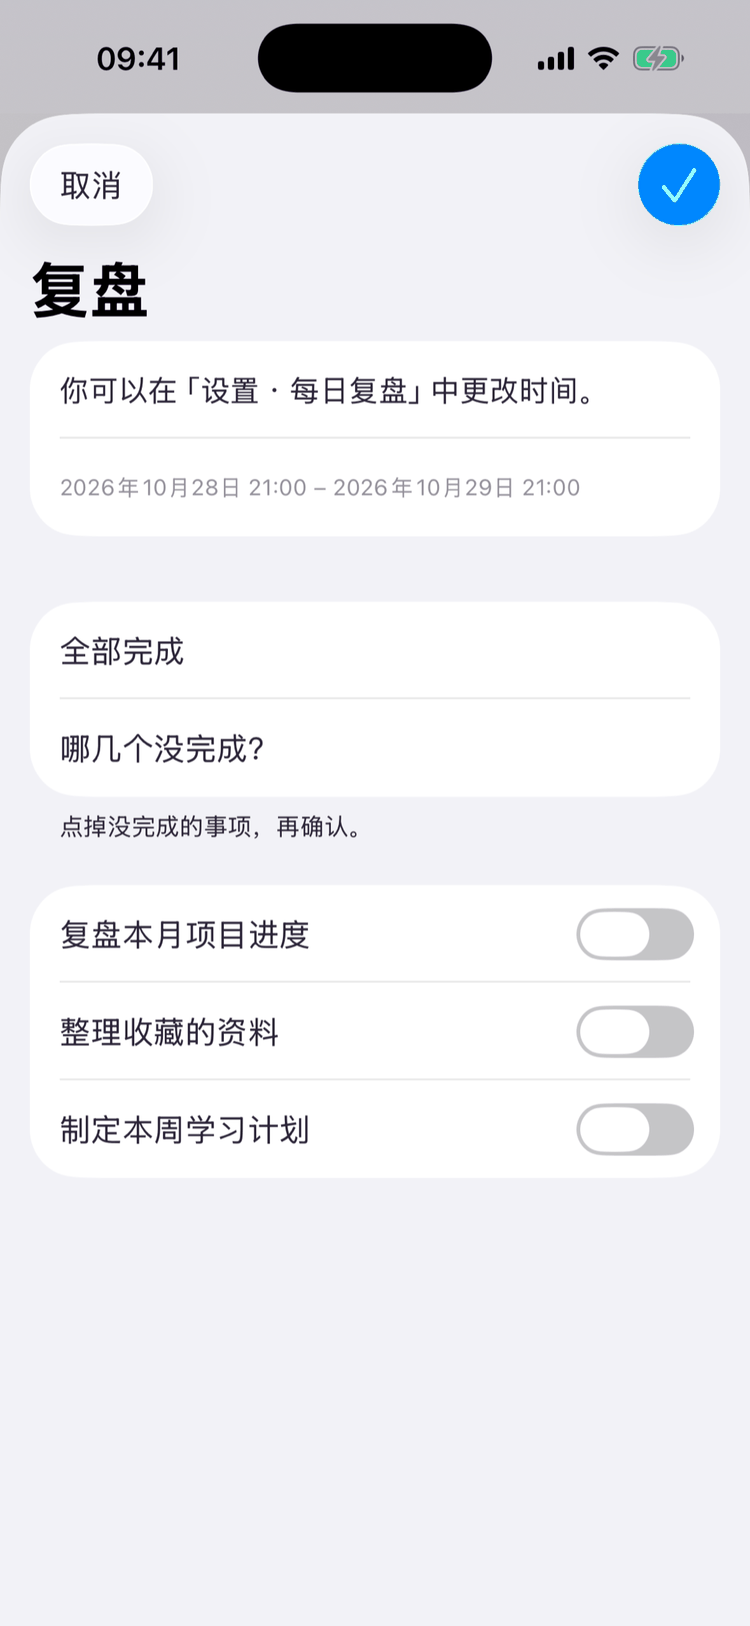
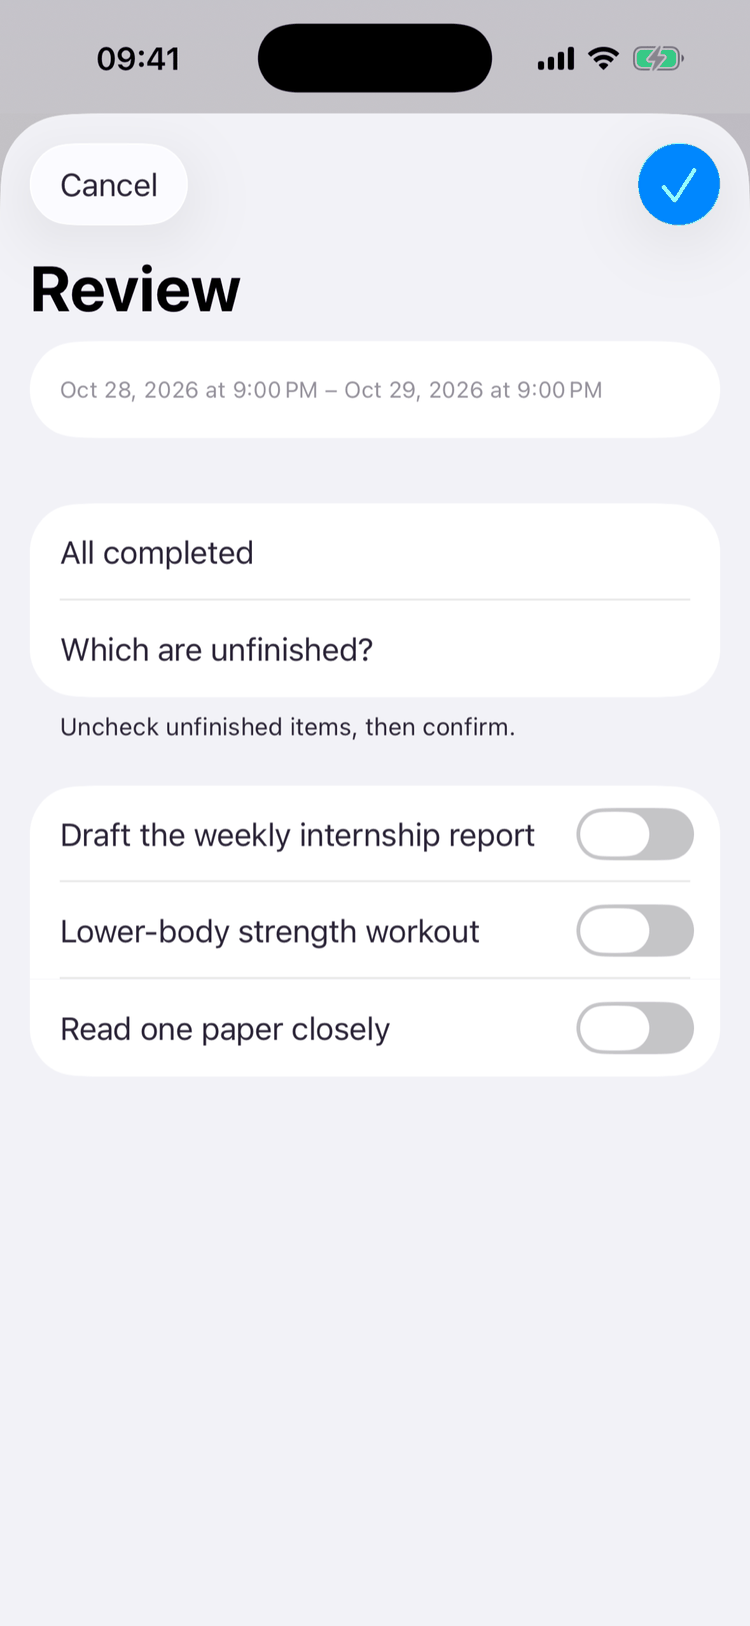
Screenshot set v2 (work/study/fitness demo data): zh + English-UI sets, profile placeholder replaced
- zh: hero, feature-profile (interview Q1), feature-breakdown, feature-schedule, feature-review
- EN: hero-en, feature-profile-en, feature-schedule-en, feature-review-en; feature-breakdown-en stays a copy of the zh breakdown (EN demo content is hardcoded Chinese)
- 750x1626 256-colour PNG, metadata stripped; vetted for credentials/personal data/retired-feature words
- Alt text updated for all images (EN + zh); README screenshot status updated

diff --git a/index.html b/index.html
@@ -49,7 +49,7 @@
           <div class="actions"><a class="button primary" href="https://testflight.apple.com/join/9BAkFSvp">Join the TestFlight beta <span class="arrow" aria-hidden="true">→</span></a><a class="button" href="#features">See how it works</a></div>
           <p class="hero-note">For iPhone · Beta via Apple TestFlight</p>
         </div>
-        <figure class="phone"><div class="phone-frame"><img src="/assets/screens/hero-en.png" data-fallback="/assets/screens/hero.png" width="1179" height="2556" alt="Owl assistant home screen with today’s todos" loading="eager"></div></figure>
+        <figure class="phone"><div class="phone-frame"><img src="/assets/screens/hero-en.png" data-fallback="/assets/screens/hero.png" width="1179" height="2556" alt="Owl assistant home with today’s todos: organize paper notes, a 30-minute upper-body workout, and weekly meeting talking points" loading="eager"></div></figure>
       </div>
     </section>
 
@@ -57,10 +57,10 @@
       <div class="shell">
         <div class="section-head"><p class="eyebrow">How it works</p><h2>One gentle loop, every day.</h2><p>Four steps that build on each other — from knowing what matters to you, to looking back on your day.</p></div>
         <ol class="features">
-          <li class="feature"><span class="step" aria-hidden="true">1</span><h3>Get to know you</h3><p>A three-question interview builds your personal profile, so suggestions fit your life. Skip any question you like.</p><figure class="phone"><div class="phone-frame"><img src="/assets/screens/feature-profile-en.png" data-fallback="/assets/screens/feature-profile.png" width="1179" height="2556" alt="Owl getting-to-know-you interview (screenshot placeholder)" loading="lazy"></div></figure></li>
-          <li class="feature"><span class="step" aria-hidden="true">2</span><h3>Break down a goal</h3><p>Tell Owl a goal and it drafts small, doable steps. Preview the AI plan first — nothing is saved until you keep it.</p><figure class="phone"><div class="phone-frame"><img src="/assets/screens/feature-breakdown-en.png" data-fallback="/assets/screens/feature-breakdown.png" width="1179" height="2556" alt="Owl AI goal breakdown preview with numbered steps" loading="lazy"></div></figure></li>
-          <li class="feature"><span class="step" aria-hidden="true">3</span><h3>Schedule as todos</h3><p>Place each step on your schedule as a todo, so the next action always has a time.</p><figure class="phone"><div class="phone-frame"><img src="/assets/screens/feature-schedule-en.png" data-fallback="/assets/screens/feature-schedule.png" width="1179" height="2556" alt="Owl plans and todos list" loading="lazy"></div></figure></li>
-          <li class="feature"><span class="step" aria-hidden="true">4</span><h3>Evening review</h3><p>Wrap up the day with a short daily review: see what got done and get gentle feedback for tomorrow.</p><figure class="phone"><div class="phone-frame"><img src="/assets/screens/feature-review-en.png" data-fallback="/assets/screens/feature-review.png" width="1179" height="2556" alt="Owl evening daily review sheet" loading="lazy"></div></figure></li>
+          <li class="feature"><span class="step" aria-hidden="true">1</span><h3>Get to know you</h3><p>A three-question interview builds your personal profile, so suggestions fit your life. Skip any question you like.</p><figure class="phone"><div class="phone-frame"><img src="/assets/screens/feature-profile-en.png" data-fallback="/assets/screens/feature-profile.png" width="1179" height="2556" alt="Owl getting-to-know-you interview, question 1 of 3: “What does life look like for you lately?”" loading="lazy"></div></figure></li>
+          <li class="feature"><span class="step" aria-hidden="true">2</span><h3>Break down a goal</h3><p>Tell Owl a goal and it drafts small, doable steps. Preview the AI plan first — nothing is saved until you keep it.</p><figure class="phone"><div class="phone-frame"><img src="/assets/screens/feature-breakdown-en.png" data-fallback="/assets/screens/feature-breakdown.png" width="1179" height="2556" alt="Owl AI goal breakdown preview: a 30-day exam-prep plan split into numbered steps (Chinese interface)" loading="lazy"></div></figure></li>
+          <li class="feature"><span class="step" aria-hidden="true">3</span><h3>Schedule as todos</h3><p>Place each step on your schedule as a todo, so the next action always has a time.</p><figure class="phone"><div class="phone-frame"><img src="/assets/screens/feature-schedule-en.png" data-fallback="/assets/screens/feature-schedule.png" width="1179" height="2556" alt="Owl plans list: strength training, internship report, quarterly review prep, paper reading, English speaking practice and a morning run" loading="lazy"></div></figure></li>
+          <li class="feature"><span class="step" aria-hidden="true">4</span><h3>Evening review</h3><p>Wrap up the day with a short daily review: see what got done and get gentle feedback for tomorrow.</p><figure class="phone"><div class="phone-frame"><img src="/assets/screens/feature-review-en.png" data-fallback="/assets/screens/feature-review.png" width="1179" height="2556" alt="Owl evening daily review: mark today’s todos as completed or unfinished" loading="lazy"></div></figure></li>
         </ol>
       </div>
     </section>

diff --git a/zh/index.html b/zh/index.html
@@ -49,7 +49,7 @@
           <div class="actions"><a class="button primary" href="https://testflight.apple.com/join/9BAkFSvp">加入 TestFlight 测试 <span class="arrow" aria-hidden="true">→</span></a><a class="button" href="#features">了解使用流程</a></div>
           <p class="hero-note">适用于 iPhone · 通过 Apple TestFlight 测试</p>
         </div>
-        <figure class="phone"><div class="phone-frame"><img src="/assets/screens/hero.png" width="1179" height="2556" alt="Owl 助手首页与今日待办" loading="eager"></div></figure>
+        <figure class="phone"><div class="phone-frame"><img src="/assets/screens/hero.png" width="1179" height="2556" alt="Owl 助手首页的今日待办：整理论文笔记、上肢力量训练 30 分钟、准备周会发言要点" loading="eager"></div></figure>
       </div>
     </section>
 
@@ -57,10 +57,10 @@
       <div class="shell">
         <div class="section-head"><p class="eyebrow">使用流程</p><h2>每天一个温和的小闭环。</h2><p>四个环节层层衔接：从了解什么对你重要，到回顾这一天。</p></div>
         <ol class="features">
-          <li class="feature"><span class="step" aria-hidden="true">1</span><h3>三个问题认识你</h3><p>简短的三问访谈为你建立个人画像，让建议更贴合你的生活。任何问题都可以跳过。</p><figure class="phone"><div class="phone-frame"><img src="/assets/screens/feature-profile.png" width="1179" height="2556" alt="Owl 认识你访谈（截图占位）" loading="lazy"></div></figure></li>
-          <li class="feature"><span class="step" aria-hidden="true">2</span><h3>拆解目标</h3><p>说出一个目标，Owl 会拟出可执行的小步骤。先预览 AI 方案，确认保留后才会保存。</p><figure class="phone"><div class="phone-frame"><img src="/assets/screens/feature-breakdown.png" width="1179" height="2556" alt="Owl AI 目标拆解预览与分步计划" loading="lazy"></div></figure></li>
-          <li class="feature"><span class="step" aria-hidden="true">3</span><h3>排进待办</h3><p>把每个步骤作为待办排进日程，让下一步行动都有明确的时间。</p><figure class="phone"><div class="phone-frame"><img src="/assets/screens/feature-schedule.png" width="1179" height="2556" alt="Owl 计划与待办列表" loading="lazy"></div></figure></li>
-          <li class="feature"><span class="step" aria-hidden="true">4</span><h3>晚间复盘</h3><p>晚上用简短的每日复盘收尾：看看完成了什么，并获得面向明天的温和反馈。</p><figure class="phone"><div class="phone-frame"><img src="/assets/screens/feature-review.png" width="1179" height="2556" alt="Owl 晚间每日复盘弹窗" loading="lazy"></div></figure></li>
+          <li class="feature"><span class="step" aria-hidden="true">1</span><h3>三个问题认识你</h3><p>简短的三问访谈为你建立个人画像，让建议更贴合你的生活。任何问题都可以跳过。</p><figure class="phone"><div class="phone-frame"><img src="/assets/screens/feature-profile.png" width="1179" height="2556" alt="Owl「认识你」访谈第 1/3 题：最近的你，是什么样的？" loading="lazy"></div></figure></li>
+          <li class="feature"><span class="step" aria-hidden="true">2</span><h3>拆解目标</h3><p>说出一个目标，Owl 会拟出可执行的小步骤。先预览 AI 方案，确认保留后才会保存。</p><figure class="phone"><div class="phone-frame"><img src="/assets/screens/feature-breakdown.png" width="1179" height="2556" alt="Owl AI 目标拆解预览：30 天备考计划拆成编号步骤" loading="lazy"></div></figure></li>
+          <li class="feature"><span class="step" aria-hidden="true">3</span><h3>排进待办</h3><p>把每个步骤作为待办排进日程，让下一步行动都有明确的时间。</p><figure class="phone"><div class="phone-frame"><img src="/assets/screens/feature-schedule.png" width="1179" height="2556" alt="Owl 计划列表：每周三次力量训练、实习周报、季度汇报准备、论文阅读、英语口语练习、晨跑 5 公里" loading="lazy"></div></figure></li>
+          <li class="feature"><span class="step" aria-hidden="true">4</span><h3>晚间复盘</h3><p>晚上用简短的每日复盘收尾：看看完成了什么，并获得面向明天的温和反馈。</p><figure class="phone"><div class="phone-frame"><img src="/assets/screens/feature-review.png" width="1179" height="2556" alt="Owl 晚间每日复盘：核对今日待办是否完成" loading="lazy"></div></figure></li>
         </ol>
       </div>
     </section>

diff --git a/README.md b/README.md
@@ -40,8 +40,8 @@ Requirements:
 - Feature cards show the **top ~75 %** of the screenshot (the phone is cropped at the card's bottom edge), so keep the key UI in the upper part of the screen.
 - Export without EXIF/GPS metadata (the verifier rejects it) and keep each file under 1.5 MB; consider re-encoding to keep the page light.
 - Status bar: clean (full battery, 9:41) and no personal data in the screenshot.
-- **Two sets:** the zh home (`/zh/`) uses `assets/screens/<slot>.png` (Chinese UI); the EN home (`/`) uses `assets/screens/<slot>-en.png` (English UI). Until real English shots arrive, each `-en.png` is a copy of the zh file, and `assets/js/site.js` also falls back to `<slot>.png` if an `-en` file is missing. `verify_site.sh` requires both sets.
-- Current state (2026-10-30): `hero`, `feature-breakdown`, `feature-schedule`, `feature-review` are real 0.4.5 screenshots (zh UI, sample data, downscaled to 750 × 1626, 256-colour PNG, metadata stripped). `feature-profile.png` is still a neutral placeholder labelled "Screenshot placeholder · feature-profile". Keep the `width="1179" height="2556"` attributes — they only set the aspect ratio.
+- **Two sets:** the zh home (`/zh/`) uses `assets/screens/<slot>.png` (Chinese UI); the EN home (`/`) uses `assets/screens/<slot>-en.png` (English UI). `assets/js/site.js` falls back to `<slot>.png` if an `-en` file is missing. `verify_site.sh` requires both sets.
+- Current state (2026-10-30, screenshot set v2, demo data work/study/fitness): all ten files are real 0.4.5 screenshots (750 × 1626, 256-colour PNG, metadata stripped) — zh set `hero`, `feature-profile` (interview Q1), `feature-breakdown`, `feature-schedule`, `feature-review`; English-UI set `hero-en`, `feature-profile-en`, `feature-schedule-en`, `feature-review-en`. **Exception:** `feature-breakdown-en.png` is a copy of the zh breakdown (the EN breakdown demo content is hardcoded Chinese in the app); replace it when an English breakdown shot exists. Keep the `width="1179" height="2556"` attributes — they only set the aspect ratio.
 
 Pet art: `assets/images/pets/pet-{owl,cat,toad}-512.webp` and `pet-*-christmas-512.webp` (512 px web versions of the finalized v2 / christmas-clean art).
 Share image: `assets/social/og-owl.jpg` (1200 × 630).
